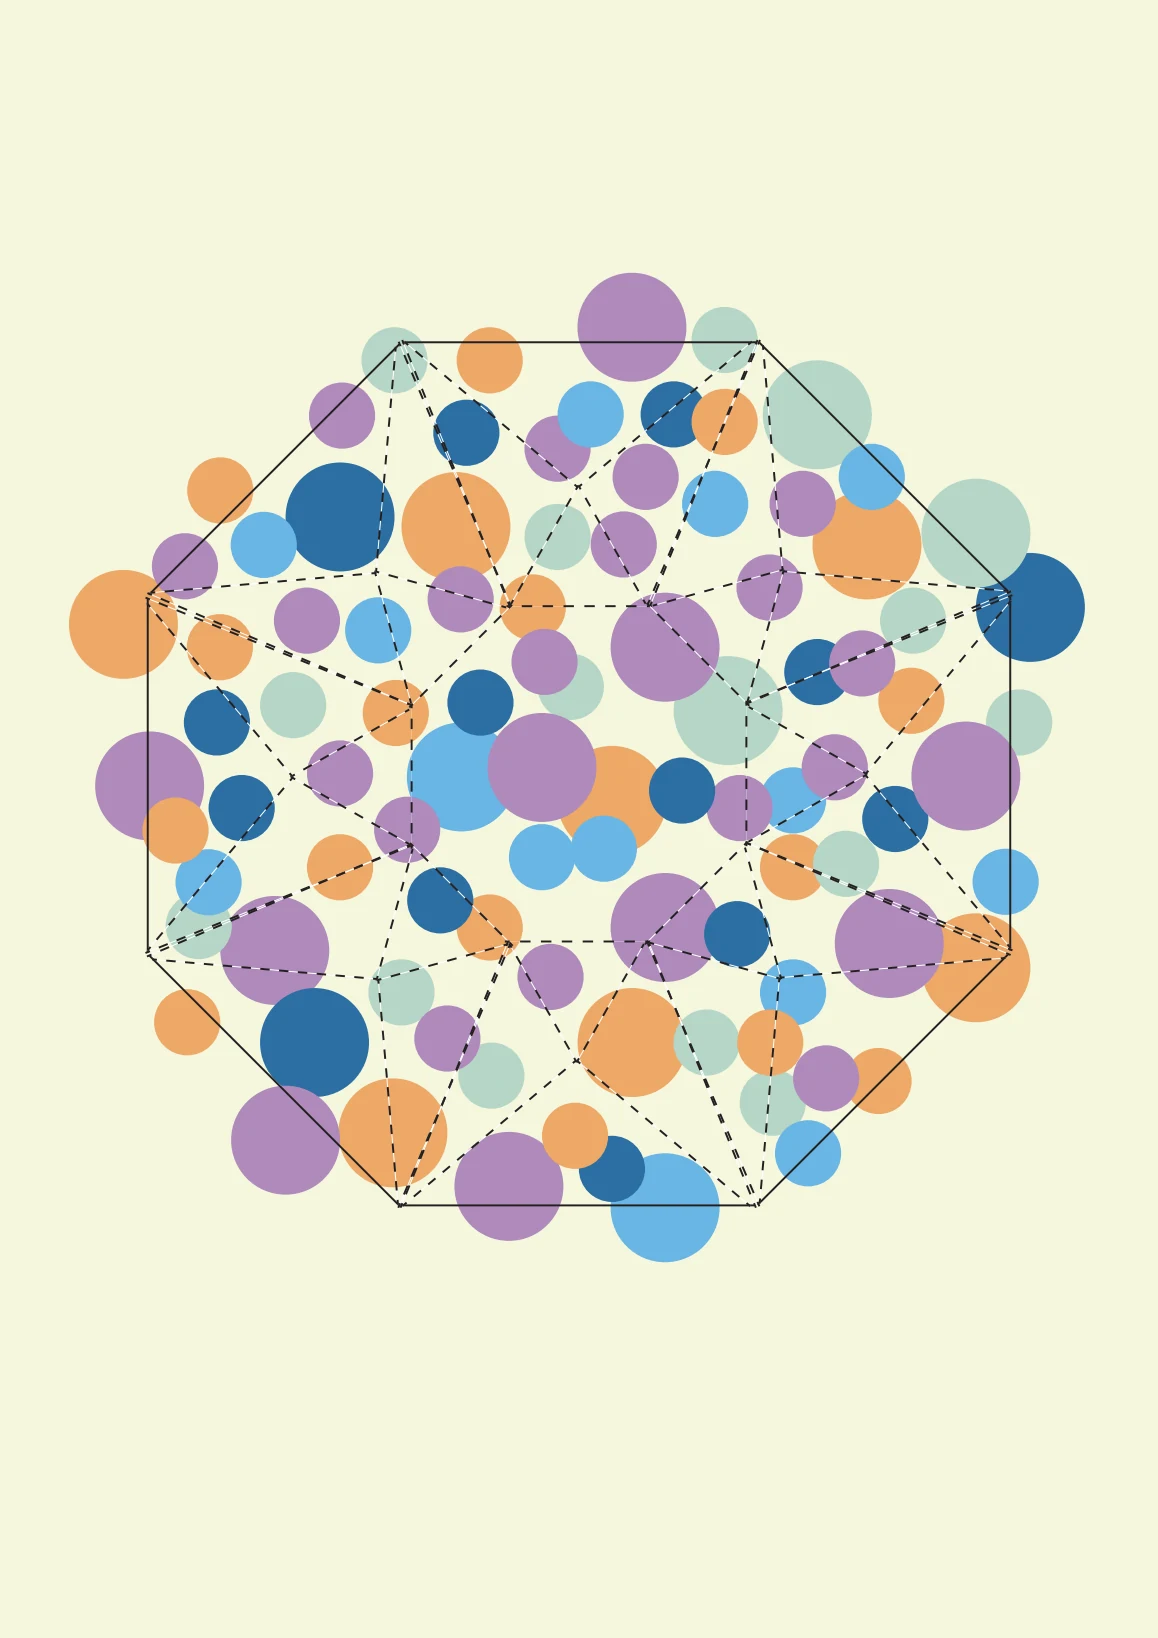
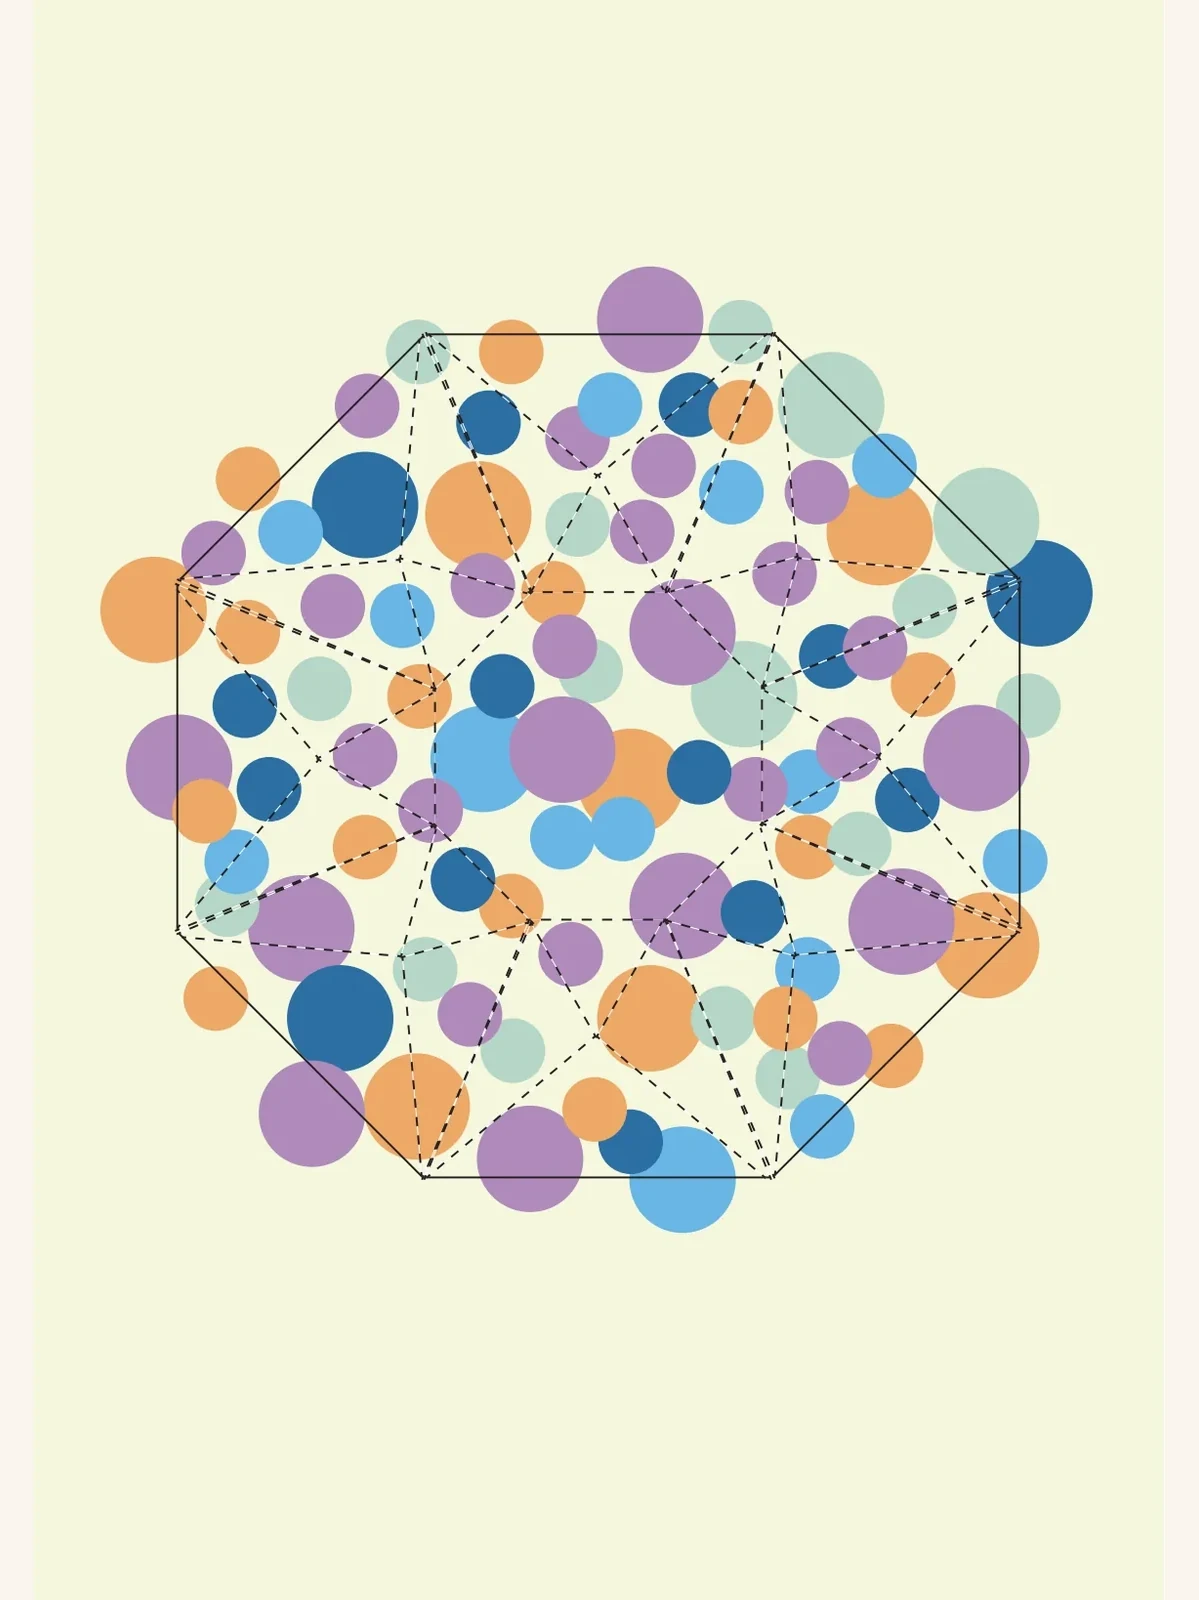
Chocolate 08: the package section, polka dot reasoning, matched image heights

diff --git a/chocolate.html b/chocolate.html
@@ -329,17 +329,18 @@
     <!-- ================= 08 包装 ================= -->
     <section class="ch-sec" id="box">
       <div class="ch-wrap">
-        <p class="ch-eyebrow">08 — The box</p>
-        <h2 class="ch-h2">The chocolate is three-dimensional, so the box had to be too.</h2>
+        <p class="ch-eyebrow">08 — The package</p>
+        <h2 class="ch-h2">The chocolate is three-dimensional, so the package had to be too.</h2>
         <p class="ch-p">
           A flat carton would have flattened the whole idea. The box is folded from one die-cut sheet
           into an eight-pointed star, and when the points close it reads as a paper flower — the same
           object as the chocolate inside, in a different material.
         </p>
         <p class="ch-p">
-          The pattern is the polka dots again, in the four colours of the flavours, so the box says
-          what is inside before you open it. The dieline was the only part that had to be exact: a
-          millimetre off and the points miss each other.
+          The pattern is polka dots, scattered in the four colours of the flavours. Dots on a flat
+          sheet do something a printed flower cannot: they read the way a meadow reads in summer —
+          colour spread across a field rather than one flower standing on its own. So the package
+          hints at the flower inside without drawing it.
         </p>
 
         <div class="ch-views">
@@ -349,7 +350,7 @@
             <figcaption><b>Folded</b>One sheet, eight points, closed by tucking the last flap under the first.</figcaption>
           </figure>
           <figure>
-            <img src="assets/img/choc/cho-dieline.webp" width="1158" height="1638"
+            <img src="assets/img/choc/cho-dieline.webp" width="1199" height="1600"
                  alt="The packaging dieline: cut lines solid, fold lines dashed, with the polka dot print." loading="lazy" />
             <figcaption><b>Dieline</b>Solid is cut, dashed is fold. The print is placed so the dots land on every point.</figcaption>
           </figure>
@@ -448,6 +449,6 @@
   </script>
   <script src="js/content.js?v=118"></script>
   <script src="js/main.js?v=118"></script>
-  <script src="js/chocolate.js?v=115"></script>
+  <script src="js/chocolate.js?v=116"></script>
 </body>
 </html>

diff --git a/js/chocolate.js b/js/chocolate.js
@@ -20,7 +20,7 @@
     { id: "mould", label: "Mould" },
     { id: "making", label: "Making" },
     { id: "colours", label: "Flavours" },
-    { id: "box", label: "Box" },
+    { id: "box", label: "Package" },
     { id: "changes", label: "Changes" },
   ];
 
